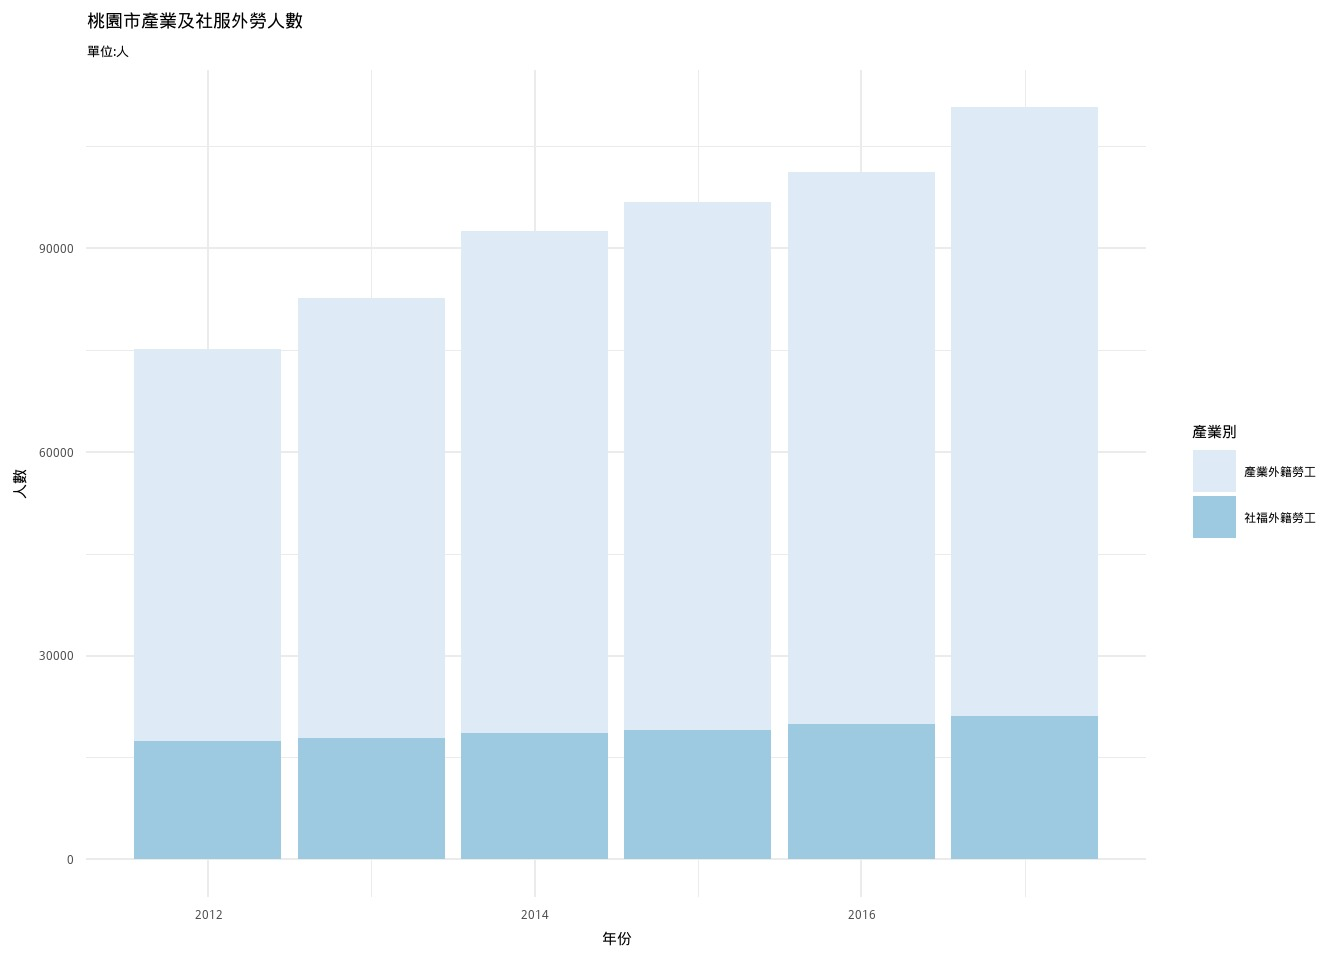
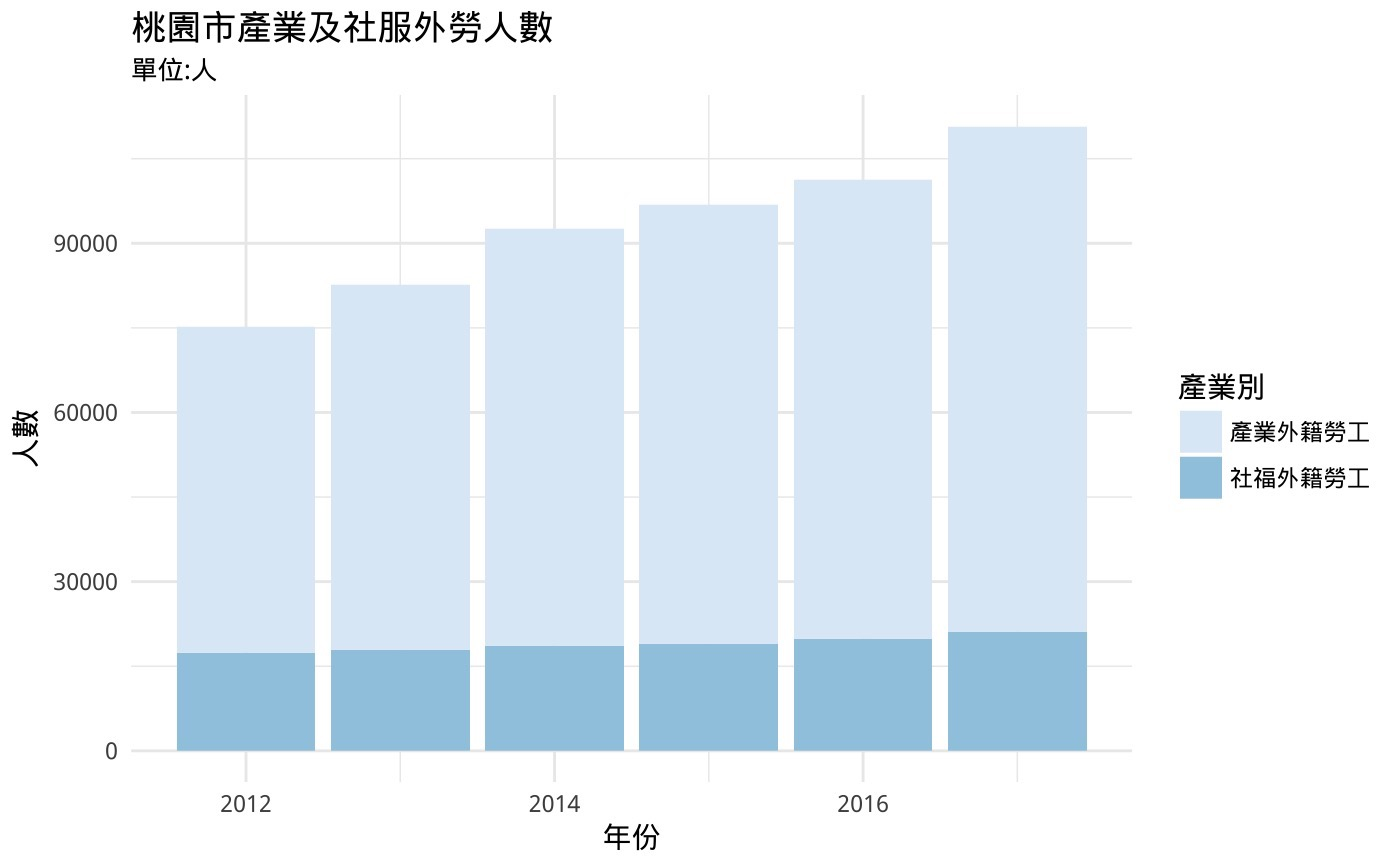
修改最後一頁

diff --git a/econblog/index.html b/econblog/index.html
@@ -30,6 +30,10 @@
     <link rel="icon" href="favicon.ico" type="image/x-icon">
     <link href="data:text/css;charset=utf-8,%0Aslide%3Anot%28%2Ecurrent%29%20%2Eplotly%2Ehtml%2Dwidget%7B%0Adisplay%3A%20none%3B%0A%7D%0A" rel="stylesheet" />
 
+    <!-- 中文字體
+    ================================================== -->
+    <link href="//fonts.googleapis.com/earlyaccess/notosanstc.css">
+
 </head>
 
 <body id="top">
@@ -49,7 +53,7 @@
                     <li class="current"><a class="smoothscroll"  href="#home" >首頁</a></li>
                     <li><a class="smoothscroll"  href="#about" >緣起</a></li>
                     <li><a class="smoothscroll"  href="#works" >問題</a></li>
-                    <li><a class="smoothscroll"  href="#services" >意見</a></li>
+                    <li><a class="smoothscroll"  href="#services" >困境</a></li>
                     <li><a class="smoothscroll"  href="#contact" >結論</a></li>
                 </ul>
 
@@ -156,7 +160,6 @@
 
         <div class="row section-header" data-aos="fade-up">
             <div class="col-full">
-                <h3 class="subhead">台灣工業部門缺工嗎？</h3>
                 <h1 class="display-1">台灣工業部門缺工嗎？</h1>
                 <p class="lead">
                   移工與台灣就業者之間的人數差距不斷地縮短，2017年「台灣就業移工比」為17:1</br>
@@ -342,6 +345,12 @@
     ================================================== -->
     <section id="stats" class="s-stats">
 
+       <div class="row testimonials" data-aos="fade-up">
+          <div class="testimonials-header">
+             <h2 class="display-1--light">桃園移工分別來自這些國家</h2>
+          </div>
+       </div>
+
         <div class="row stats block-1-4 block-m-1-2 block-mob-full" data-aos="fade-up">
 
             <div class="col-block stats__col ">
@@ -368,17 +377,17 @@
 
     <!-- contact
     ================================================== -->
-    <section id="contact" class="s-contact">
+    <section id="contact" class="s-services light-gray">
 
       <div class="row  section-header" data-aos="fade-up">
             <div class="col-full">
                 <h3 class="subhead subhead--light">人的氣質，決定了個人的人緣；城市的氣質，影響了城市的人氣。《移動的城市》</h3>
             </div>
       </div>
+
       <div class="row" data-aos="fade-up">
             <div class="col-full">
                 <p class="lead">
-                  <h1 class="display-1--light">
                   全球化下，人力的流動成為常態，人們跨越城鄉甚至國界以獲取更好的生活，無論是中國的北漂、到鄰近國家當「台幹」的青年，或者在政府廉價勞動力輸出政策驅使下大批離鄉打拼的東南亞移工，其本質上並沒有什麼不同，大家都是為了生活而選擇的結果。
                   </h1>
                 </p>
@@ -387,7 +396,6 @@
         <div class="row" data-aos="fade-up">
               <div class="col-full">
                   <p class="lead">
-                    <h1 class="display-1--light">
                     至今20餘年的開放，移工的角色不僅僅是勞動市場的潤滑劑，而是桃園文化的一環，仔細一看，可以發現火車站的周圍開起了異國的餐廳與小商店，來來往往的說著自己國家的母語。這裡是移工假日的休閒地，也是文化建立與暸解的起源，乘載了許多移工的夢想，同時也成為移工認同的地方，更甚成為台灣的一份子，移工改變了桃園的樣貌，也帶動桃園的經濟，不論是在消費上，還是外籍移工親友來探親，都會促進桃園的經濟與觀光產業。桃園是「異鄉人·台灣夢」的縮影，是最平凡卻也是重要的一部分，我們重塑的想法不只單單在桃園，而是台灣人對於生活周遭的看法與了解，並創造一個和解與包容的空間。
                     </h1>
                   </p>
@@ -396,10 +404,14 @@
 
         <div class="testimonials-wrap" data-aos="fade-up">
 
+            <div class="row">
+               <div class="col-full testimonials-header">
+                  <h2 class="h1">衝鋒特戰隊</h2>
+               </div>
+            </div>
+
             <div class="row testimonials">
-              <div class="col-full testimonials-header">
-                <h2 class="display-1--light">衝鋒特戰隊</h2>
-              </div>
+
                 <div class="col-full testimonials__slider">
 
                     <div class="testimonials__slide">
@@ -435,7 +447,46 @@
 
         </div> <!-- end testimonials-wrap -->
 
+        <div class="row">
+           <div class="col-full testimonials-header">
+              <h2 class="h1"></h2>
+           </div>
+        </div>
 
+
+        <!-- 參考資料＆資料庫 -->
+        <div class="row">
+        <span>資料來源:</span><br>
+        <a href="http://mpark.news/2018/01/31/3997/">2018 移人 MPark、</a>
+        <a href="hhttps://p.udn.com.tw/upf/newmedia/2016_data/20160430_migrante/index.html">聯合新聞網、</a>
+        <a href="https://www.tedxtaoyuan.com/single-post/2016/07/31/%E6%88%91%E5%80%91%E7%9A%84%E9%81%B8%E6%93%87%EF%BC%8C%E4%BB%96%E5%80%91%E7%9A%84%E8%B7%AF%E2%94%80%E5%9C%A8%E5%8F%B0%E5%A4%96%E7%B1%8D%E5%8B%9E%E5%B7%A5%E7%9A%84%E5%9B%B0%E5%A2%83">TedxTaoyuan、</a>
+        <a href="http://peachdontgo.blogspot.tw/2016/05/0506_16.html">桃步走 、</a>
+        <a href="https://www.taiwanstat.com/statistics/foreign-worker/">用數據看台灣、</a>
+        <a href="https://statfy.mol.gov.tw/map02.aspx?cid=3&xFunc=27">勞動統計查詢網</a></h3>
+
+        <!-- 讚圖 -->
+        <div id="fb-root"></div>
+        <script>(function(d, s, id) {
+          var js, fjs = d.getElementsByTagName(s)[0];
+          if (d.getElementById(id)) return;
+          js = d.createElement(s); js.id = id;
+          js.src = 'https://connect.facebook.net/zh_TW/sdk.js#xfbml=1&version=v3.0&appId=192455998065858&autoLogAppEvents=1';
+          fjs.parentNode.insertBefore(js, fjs);
+        }(document, 'script', 'facebook-jssdk'));</script>
+        <div class="fb-like" data-href="https://choumienmien.github.io/econblog-master/econblog/index.html" data-layout="button" data-action="like" data-size="large" data-show-faces="true" data-share="true"></div>
+
+        <!-- 留言 -->
+        <div id="fb-root"></div>
+        <script>(function(d, s, id) {
+          var js, fjs = d.getElementsByTagName(s)[0];
+          if (d.getElementById(id)) return;
+          js = d.createElement(s); js.id = id;
+          js.src = 'https://connect.facebook.net/zh_TW/sdk.js#xfbml=1&version=v3.0&appId=192455998065858&autoLogAppEvents=1';
+          fjs.parentNode.insertBefore(js, fjs);
+        }(document, 'script', 'facebook-jssdk'));</script>
+        <div class="fb-comments" data-href="https://choumienmien.github.io/econblog-master/econblog/index.html" data-numposts="5"></div>
+
+        <!--  著作權copyright-->
         <div class="row">
             <div class="col-full cl-copyright">
                 <span><!-- Link back to Colorlib can't be removed. Template is licensed under CC BY 3.0. -->

diff --git a/econblog/css/main.css b/econblog/css/main.css
@@ -2879,7 +2879,7 @@ html.no-csstransitions .home-content__main {
   padding-top: 4.2rem;
   padding-bottom: 4.2rem;
   background-color: #050505;
-  background-image: url(../images/stats-bg.jpg);
+  background-image: url(../images/stats-bg2.jpg);
   background-repeat: no-repeat;
   background-position: center center;
   background-size: cover;
